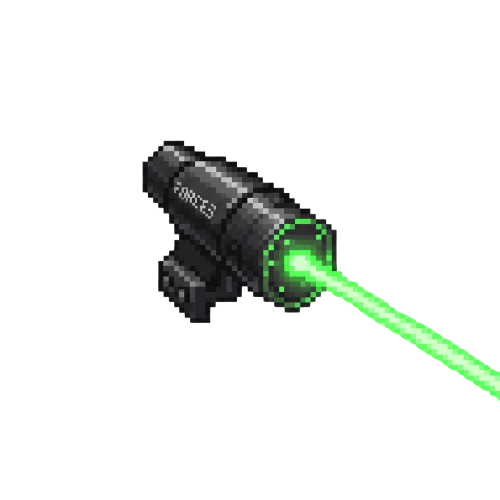
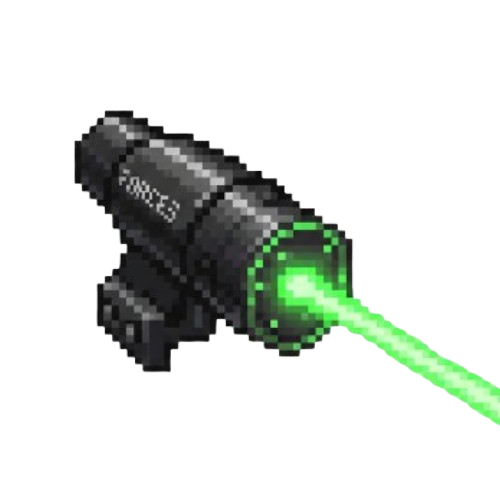
New shop backgroud

Changed region(s): [[0.15, 0.21, 1.0, 0.87]]

diff --git a/docs/js/ShopManager.js b/docs/js/ShopManager.js
@@ -1,137 +1,174 @@
 class ShopManager {
     constructor() {
         this.resetShop();
+        
+        this.itemPositions = [
+            { x: width / 2 - 125, y: height / 2 + 65 }, // Strength Potion
+            { x: width / 2,       y: height / 2 + 65 }, // Laser Sight
+            { x: width / 2 + 125, y: height / 2 + 65 }  // Sand Clock
+        ];
+
+        this.hitRadius = 60; 
     }
 
     resetShop() {
         this.availableItems = [
-            new ShopItem(
-                "Strength Potion",
-                200,
-                "Pulls items 2x faster, period: 1 level",
-            ),
-            new ShopItem(
-                "Laser Sight",
-                200, 
-                "Often miss? Buy Laser Sight now! period: 1 level",
-            ),
-            new ShopItem(
-                "Sand Clock",
-                250,
-                "Get extra 10 seconds, period: 1 level",
-            )
+            // \n 换行
+            new ShopItem("Strength Potion", 200, "Pulls items 2x faster. \nperiod: 1 level"),
+            new ShopItem("Laser Sight", 200, "Often miss? Buy Laser Sight now! \nperiod: 1 level"),
+            new ShopItem("Sand Clock", 250, "Get extra 10 seconds. \nperiod: 1 level")
         ];
     }
 
     draw(player) {
         push();
-        background(40, 40, 60);
+        
+        // --- 1. 绘制背景 (Cover 模式防止拉伸) ---
+        if (typeof shopBgImg !== "undefined" && shopBgImg) {
+            let imgRatio = shopBgImg.width / shopBgImg.height;
+            let canvasRatio = width / height;
+            let drawW, drawH, drawX, drawY;
 
-        fill(255);
+            if (imgRatio > canvasRatio) {
+                drawH = height;
+                drawW = height * imgRatio;
+            } else {
+                drawW = width;
+                drawH = width / imgRatio;
+            }
+            drawX = (width - drawW) / 2;
+            drawY = (height - drawH) / 2;
+
+            imageMode(CORNER);
+            image(shopBgImg, drawX, drawY, drawW, drawH);
+        } else {
+            background(40, 40, 60); 
+        }
+
+        // 金币显示
         textAlign(CENTER, CENTER);
-        textSize(40);
-        text("SHOP", width / 2, 60);
-
         textSize(20);
-        fill(255, 215, 0);
-        text(`Your Money: ${player.totalScore}`, width / 2, 110);
+        textStyle(BOLD);
+        fill(150, 80, 0); 
+        text(`Gold: ${player.totalScore}`, 90, 60); 
 
-        let startY = 200;
+        // “下一关”按钮
+        let nextBtnX = width - 90;
+        let nextBtnY = 60;
+        
+        // 判定鼠标是否在“下一关”文字区域
+        let isNextHovered = (abs(mouseX - nextBtnX) < 70 && abs(mouseY - nextBtnY) < 30);
+        
+        if (isNextHovered) {
+            noStroke();
+            fill(255, 255, 255, 120); // 白色亮底
+            rectMode(CENTER);
+            rect(nextBtnX, nextBtnY, 140, 50, 10);
+        }
+        fill(0); // 文字设为黑色或深色，配合白底更显眼
+        if (!isNextHovered) fill(255); // 非悬停时保持白色或根据你背景图调整
+        
+        textAlign(CENTER, CENTER);
+        textSize(20);
+        textStyle(BOLD);
+        text("Next Level", nextBtnX, nextBtnY);
+        textStyle(NORMAL);
+
+        // 商品绘制与悬停逻辑
+        let hoveredItem = null;
+
         for (let i = 0; i < this.availableItems.length; i++) {
             let item = this.availableItems[i];
+            let pos = this.itemPositions[i];
+            
+            let d = dist(mouseX, mouseY, pos.x, pos.y);
+            let isHovered = (d < this.hitRadius);
 
-            fill(200);
-            rectMode(CENTER);
-            rect(width / 2, startY + i * 80, 400, 60, 10);
-
-            if (
-                item.name === "Strength Potion" &&
-                typeof potionImg !== "undefined" &&
-                potionImg
-            ) {
-                imageMode(CENTER);
-                image(potionImg, width / 2 - 160, startY + i * 80, 40, 40);
-            }
-            else if (
-                item.name === "Laser Sight" &&
-                typeof laserImg !== "undefined" &&
-                laserImg
-            ) {
-                imageMode(CENTER);
-                image(laserImg, width / 2 - 160, startY + i * 80, 40, 40);
-            }
-            else if (
-                item.name === "Sand Clock" &&
-                typeof clockImg !== "undefined" &&
-                clockImg
-            ) {
-                imageMode(CENTER);
-                image(clockImg, width / 2 - 160, startY + i * 80, 40, 40);
+            if (isHovered) {
+                hoveredItem = item;
+                noStroke();
+                fill(255, 255, 255, 100);
+                circle(pos.x, pos.y, this.hitRadius * 2);
             }
 
-            fill(0);
-            textAlign(LEFT, CENTER);
-            textSize(18);
-            text(
-                `${item.name} - $${item.costPrice}`,
-                width / 2 - 130,
-                startY + i * 80 - 10,
-            );
-            textSize(14);
-            fill(80);
-            text(item.description, width / 2 - 130, startY + i * 80 + 15);
+            imageMode(CENTER);
+            let imgSize = 80; 
+            
+            if (item.name === "Strength Potion" && typeof potionImg !== "undefined" && potionImg) {
+                image(potionImg, pos.x, pos.y, imgSize, imgSize);
+            }
+            else if (item.name === "Laser Sight" && typeof laserImg !== "undefined" && laserImg) {
+                image(laserImg, pos.x, pos.y, imgSize, imgSize);
+            }
+            else if (item.name === "Sand Clock" && typeof clockImg !== "undefined" && clockImg) {
+                image(clockImg, pos.x, pos.y, imgSize, imgSize);
+            }
 
-            rectMode(CENTER);
-            let yPos = startY + i * 80 - 10;
             if (item.purchased) {
-                fill(150);
-                rect(width / 2 + 140, yPos, 80, 30, 5);
-                fill(255);
-                textAlign(CENTER, CENTER);
-                text("SOLD", width / 2 + 140, yPos);
-            } else {
-                fill(100, 200, 100);
-                rect(width / 2 + 140, yPos, 80, 30, 5);
-                fill(0);
-                textAlign(CENTER, CENTER);
-                text("BUY", width / 2 + 140, yPos);
+                fill(0, 0, 0, 180);
+                circle(pos.x, pos.y, imgSize + 5);
+                fill(255, 50, 50);
+                textSize(20);
+                textStyle(BOLD);
+                text("SOLD", pos.x, pos.y);
+                textStyle(NORMAL);
             }
         }
 
-        fill(100, 150, 255);
-        rectMode(CENTER);
-        rect(width / 2, height - 60, 200, 50, 10);
-        fill(255);
-        textAlign(CENTER, CENTER);
-        textSize(20);
-        text("Next Level", width / 2, height - 60);
+        // 底部柜台文本
+        if (hoveredItem) {
+            fill(60, 40, 20); 
+            textAlign(CENTER, CENTER);
+            let infoY = height - 105; 
+
+            textSize(24);
+            textStyle(BOLD);
+            text(`${hoveredItem.name}  -  $${hoveredItem.costPrice}`, width / 2, infoY - 20);
+            textStyle(NORMAL);
+
+            textSize(18);
+            fill(80, 60, 40);
+            text(hoveredItem.description, width / 2, infoY + 15);
+
+            textSize(16);
+            if (hoveredItem.purchased) {
+                fill(150, 0, 0);
+                text("Already Purchased", width / 2, infoY + 50); // Y越大越靠下
+            } else if (player.totalScore < hoveredItem.costPrice) {
+                fill(150, 0, 0);
+                text("Not enough Gold!", width / 2, infoY + 50);
+            } else {
+                fill(0, 120, 0);
+                text("Click to buy", width / 2, infoY + 50);
+            }
+        }
+
         pop();
     }
 
     handleMousePress(player) {
-        let startY = 200;
+        // 同步修改“下一关”按钮的点击判定中心和范围
+        let nextBtnX = width - 90; // 与 draw 保持一致
+        let nextBtnY = 60;        // 与 draw 保持一致
+        
+        if (abs(mouseX - nextBtnX) < 70 && abs(mouseY - nextBtnY) < 30) {
+            return "NEXT_LEVEL"; 
+        }
 
         for (let i = 0; i < this.availableItems.length; i++) {
             let item = this.availableItems[i];
-            let btnX = width / 2 + 140;
-            let btnY = startY + i * 80;
+            let pos = this.itemPositions[i];
 
-            if (
-                !item.purchased &&
-                abs(mouseX - btnX) < 40 &&
-                abs(mouseY - btnY) < 15
-            ) {
-                if (player.purchaseItem(item)) {
-                    item.purchased = true;
+            let d = dist(mouseX, mouseY, pos.x, pos.y);
+            if (d < this.hitRadius) {
+                if (!item.purchased && player.totalScore >= item.costPrice) {
+                    if (player.purchaseItem(item)) {
+                        item.purchased = true;
+                    }
                 }
                 return "BOUGHT";
             }
         }
-
-        if (abs(mouseX - width / 2) < 100 && abs(mouseY - (height - 60)) < 25) {
-            return "NEXT_LEVEL";
-        }
-
         return "NONE";
     }
 }

diff --git a/docs/sketch.js b/docs/sketch.js
@@ -1,6 +1,9 @@
 let gameManager;
 let bgImageLevel1;
 let potionImg;
+let laserImg;
+let clockImg;
+let shopBgImg;
 let titleBgm;
 let imgSmallFishes = [];
 let imgBigFishes = [];
@@ -13,10 +16,12 @@ function preload() {
     potionImg = loadImage("assets/PowerPotion.png");
     laserImg = loadImage("assets/Laser.png");
     clockImg = loadImage("assets/SandClock.png");
+    shopBgImg = loadImage("assets/Shop.png");
     titleBgm = loadSound("assets/Ocean.mp3");
     shopBgm = loadSound("assets/ShopGen3.mp3");
     boatImg = loadImage("assets/boat.png");
     hookImg = loadImage("assets/hook.png");
+    
 
     for (let i = 1; i <= 43; i++) {
         let frame1 = loadImage(`assets/fish${i}_1.png`);
@@ -31,7 +36,7 @@ function preload() {
         imgBigFishes.push([frame1, frame2]);
     }
     imgSkeleton = loadImage("assets/Skeleton.png");
-    treasureChest = loadImage("assets/Treasure_Chest .png");
+    treasureChest = loadImage("assets/Treasure_Chest.png");
 }
 
 function setup() {

diff --git a/docs/js/GameManager.js b/docs/js/GameManager.js
@@ -41,8 +41,8 @@ class GameManager {
             this.levelNum,
             this.player,
         );
-        //【未启用】每次开启关卡时，应用已购买的道具
-        //this.player.consumeItems(this.levelManager);
+        // 每次开启关卡时，应用已购买的道具
+        this.player.consumeItems(this.levelManager);
         this.changeState(GameState.PLAYING);
     }
 

diff --git a/docs/js/Hook.js b/docs/js/Hook.js
@@ -10,7 +10,7 @@ class Hook extends GameObject {
         this.hasLaser = false;
 
         this.angle = 0;
-        this.angleVel = 0.035;
+        this.angleVel = 0.028;
         this.length = 50;
         this.maxLength = 500;
 